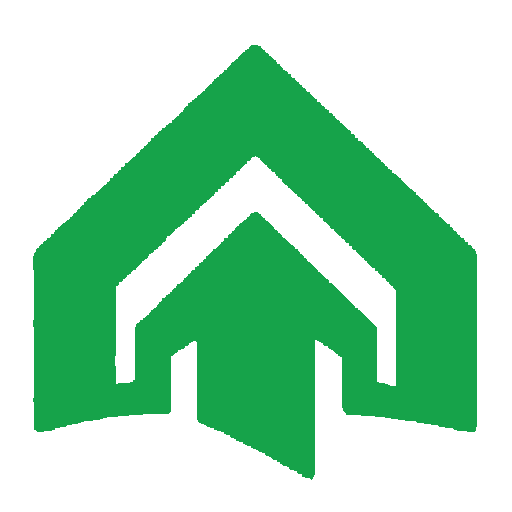
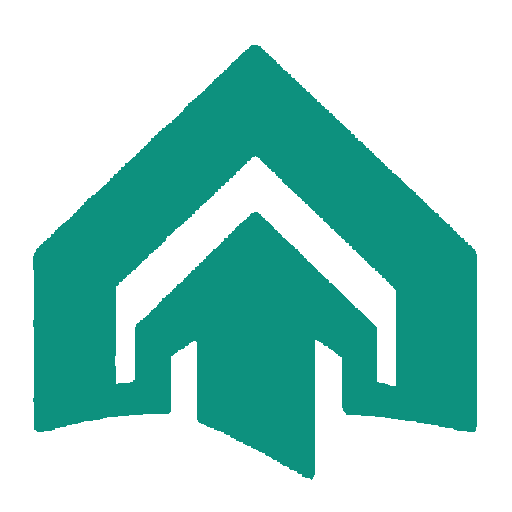
rebrand to Hunita, refresh brand assets, and improve SEO metadata

diff --git a/app/page.tsx b/app/page.tsx
@@ -18,6 +18,8 @@ import { PaymentStatusBadge } from "@/components/ui/payment-status-badge";
 import { UserMenuCta } from "@/components/user-menu-cta";
 import { readSessionFromToken } from "@/lib/server/auth-session";
 
+const APP_URL = process.env.NEXT_PUBLIC_APP_URL || process.env.NEXT_PUBLIC_SITE_URL || "http://localhost:3000";
+
 const paymentStages = [
   { label: "Belum bayar", note: "Tagihan sudah dibuat, belum ada bukti pembayaran." },
   { label: "Menunggu Verifikasi", note: "Warga sudah upload bukti, menunggu pengecekan finance." },
@@ -54,6 +56,16 @@ const features = [
 
 const futureFeature = ["Notifikasi Tagihan", "Reminder Belum Bayar", "Booking Fasilitas", "Marketplace Warga", "Laporan Pengeluaran Detail"] as const;
 
+const websiteJsonLd = {
+  "@context": "https://schema.org",
+  "@type": "WebApplication",
+  name: "Hunita",
+  description: "Sistem Management Perumahan yang transparan.",
+  applicationCategory: "BusinessApplication",
+  operatingSystem: "Web",
+  url: APP_URL,
+};
+
 function statusBadge(status: string) {
   return <PaymentStatusBadge status={status} />;
 }
@@ -66,6 +78,7 @@ export default async function Page() {
 
   return (
     <div className="relative overflow-hidden">
+      <script type="application/ld+json" dangerouslySetInnerHTML={{ __html: JSON.stringify(websiteJsonLd) }} />
       <div className="absolute -left-24 bottom-[-180px] h-80 w-80 rounded-full bg-[hsl(var(--spark-amber))] blur-3xl" />
       <div className="absolute -right-14 -top-20 h-72 w-72 rounded-full bg-[hsl(var(--spark-teal))] blur-3xl" />
 
@@ -76,8 +89,8 @@ export default async function Page() {
               <BrandMark className="h-8 w-8" />
             </div>
             <div>
-              <p className="font-heading text-base font-semibold">Smart Cluster</p>
-              <p className="text-sm text-muted-foreground">Sistem Manajemen Transaksi & IPL</p>
+              <p className="font-heading text-base font-semibold">Hunita</p>
+              <p className="text-sm text-muted-foreground">Sistem Management Perumahan yang transparan.</p>
             </div>
           </div>
           {!hasActiveSession ? (
@@ -119,7 +132,7 @@ export default async function Page() {
                       <span className="h-2.5 w-2.5 rounded-full bg-amber-400" />
                       <span className="h-2.5 w-2.5 rounded-full bg-emerald-400" />
                       <div className="ml-2 rounded-md bg-white px-2 py-0.5 text-[10px] text-muted-foreground">
-                        smart-cluster-app.vercel.app/dashboard/admin
+                        hunita.vercel.app/dashboard/admin
                       </div>
                     </div>
 
@@ -277,7 +290,7 @@ export default async function Page() {
 
         <footer className="mt-6 flex flex-wrap items-center gap-2 text-sm text-muted-foreground">
           <CalendarClock className="h-4 w-4" />
-          <span>Landing page disesuaikan dengan dashboard terbaru Smart Cluster.</span>
+          <span>Landing page disesuaikan dengan dashboard terbaru Hunita.</span>
           <Building2 className="ml-2 h-4 w-4" />
           <ShieldCheck className="h-4 w-4" />
           <ReceiptText className="h-4 w-4" />

diff --git a/app/layout.tsx b/app/layout.tsx
@@ -4,19 +4,65 @@ import "./globals.css";
 import { PwaRegister } from "@/components/pwa-register";
 import { DeveloperErrorModal } from "@/components/ui/developer-error-modal";
 
+const APP_NAME = "Hunita";
+const APP_DESCRIPTION = "Sistem Management Perumahan yang transparan.";
+const APP_URL = process.env.NEXT_PUBLIC_APP_URL || process.env.NEXT_PUBLIC_SITE_URL || "http://localhost:3000";
+
 export const metadata: Metadata = {
-  title: "Smart Cluster - UI Prototype",
-  description: "Shadcn-styled Smart Cluster dashboard for admin and warga flow.",
+  metadataBase: new URL(APP_URL),
+  title: {
+    default: APP_NAME,
+    template: `%s | ${APP_NAME}`,
+  },
+  description: APP_DESCRIPTION,
+  applicationName: APP_NAME,
+  keywords: ["Hunita", "manajemen perumahan", "IPL", "iuran warga", "dashboard perumahan", "transaksi perumahan"],
+  alternates: {
+    canonical: "/",
+  },
+  robots: {
+    index: true,
+    follow: true,
+    googleBot: {
+      index: true,
+      follow: true,
+      "max-image-preview": "large",
+      "max-video-preview": -1,
+      "max-snippet": -1,
+    },
+  },
+  openGraph: {
+    type: "website",
+    locale: "id_ID",
+    url: "/",
+    siteName: APP_NAME,
+    title: APP_NAME,
+    description: APP_DESCRIPTION,
+    images: [
+      {
+        url: "/brand/icon-512-green.png",
+        width: 512,
+        height: 512,
+        alt: `${APP_NAME} logo`,
+      },
+    ],
+  },
+  twitter: {
+    card: "summary",
+    title: APP_NAME,
+    description: APP_DESCRIPTION,
+    images: ["/brand/icon-512-green.png"],
+  },
   manifest: "/manifest.webmanifest",
   icons: {
-    icon: [{ url: "/brand/favicon-32.png", sizes: "32x32", type: "image/png" }],
-    shortcut: "/brand/favicon-32.png",
-    apple: [{ url: "/apple-icon.png", sizes: "180x180", type: "image/png" }],
+    icon: [{ url: "/brand/favicon-32-green.png", sizes: "32x32", type: "image/png" }],
+    shortcut: "/brand/favicon-32-green.png",
+    apple: [{ url: "/apple-icon-green.png", sizes: "180x180", type: "image/png" }],
   },
   appleWebApp: {
     capable: true,
     statusBarStyle: "default",
-    title: "Smart Cluster",
+    title: APP_NAME,
   },
 };
 

diff --git a/app/login/page.tsx b/app/login/page.tsx
@@ -1,6 +1,17 @@
+import type { Metadata } from "next";
+
 import { BrandMark } from "@/components/brand-mark";
 import { LoginForm } from "@/components/login-form";
 import { Card, CardContent, CardHeader, CardTitle } from "@/components/ui/card";
+
+export const metadata: Metadata = {
+  title: "Login",
+  description: "Login Hunita untuk akses dashboard perumahan.",
+  robots: {
+    index: false,
+    follow: false,
+  },
+};
 
 export default function LoginPage() {
   return (
@@ -12,9 +23,9 @@ export default function LoginPage() {
               <div className="mb-3 inline-flex h-12 w-12 items-center justify-center rounded-lg bg-white/90 p-1 shadow-sm ring-1 ring-[hsl(var(--menu-border))]">
                 <BrandMark className="h-9 w-9" />
               </div>
-              <p className="font-heading text-lg">Smart Cluster</p>
+              <p className="font-heading text-lg">Hunita</p>
               <p className="mt-1 text-xs leading-relaxed text-[hsl(var(--menu-muted))]">
-                Sistem manajemen transaksi dan IPL perumahan yang transparan, rapi, dan mudah dipantau.
+                Sistem Management Perumahan yang transparan.
               </p>
             </div>
             <div>

diff --git a/components/dashboard-shell.tsx b/components/dashboard-shell.tsx
@@ -40,7 +40,7 @@ export function DashboardShell({ roleLabel, sidebar, children }: DashboardShellP
             <BrandMark className="h-6 w-6" />
           </div>
           <div>
-            <p className="font-heading text-base">Smart Cluster</p>
+            <p className="font-heading text-base">Hunita</p>
             <p className="text-xs text-muted-foreground">{roleLabel}</p>
           </div>
         </div>
@@ -66,7 +66,7 @@ export function DashboardShell({ roleLabel, sidebar, children }: DashboardShellP
                   <BrandMark className="h-6 w-6" />
                 </div>
                 <div>
-                  <p className="font-heading text-base">Smart Cluster</p>
+                  <p className="font-heading text-base">Hunita</p>
                   <p className="text-xs text-[hsl(var(--menu-muted))]">{roleLabel}</p>
                 </div>
               </div>

diff --git a/tests/e2e/smoke.spec.ts b/tests/e2e/smoke.spec.ts
@@ -1,10 +1,10 @@
 import { expect, test } from "@playwright/test";
 
-test.describe("Smart Cluster public flow", () => {
+test.describe("Hunita public flow", () => {
   test("landing page renders key content", async ({ page }) => {
     await page.goto("/");
-    await expect(page.getByText("Smart Cluster").first()).toBeVisible();
-    await expect(page.getByText("Sistem Manajemen Transaksi & IPL")).toBeVisible();
+    await expect(page.getByText("Hunita").first()).toBeVisible();
+    await expect(page.getByText("Sistem Management Perumahan yang transparan.")).toBeVisible();
   });
 
   test("login page renders google login button", async ({ page }) => {

diff --git a/components/brand-mark.tsx b/components/brand-mark.tsx
@@ -2,12 +2,13 @@ import Image from "next/image";
 
 import { cn } from "@/lib/utils";
 
+const BRAND_MARK_SRC = "/brand/brand-mark-green.png";
+
 type BrandMarkProps = {
   className?: string;
   alt?: string;
 };
 
-export function BrandMark({ className, alt = "Smart Cluster logo" }: BrandMarkProps) {
-  return <Image src="/brand/brand-mark.png" alt={alt} width={64} height={64} className={cn("h-8 w-8 object-contain", className)} />;
+export function BrandMark({ className, alt = "Hunita logo" }: BrandMarkProps) {
+  return <Image src={BRAND_MARK_SRC} alt={alt} width={64} height={64} className={cn("h-8 w-8 object-contain", className)} />;
 }
-

diff --git a/app/sitemap.ts b/app/sitemap.ts
@@ -1,0 +1,20 @@
+import type { MetadataRoute } from "next";
+
+const APP_URL = process.env.NEXT_PUBLIC_APP_URL || process.env.NEXT_PUBLIC_SITE_URL || "http://localhost:3000";
+
+export default function sitemap(): MetadataRoute.Sitemap {
+  return [
+    {
+      url: `${APP_URL}/`,
+      lastModified: new Date(),
+      changeFrequency: "weekly",
+      priority: 1,
+    },
+    {
+      url: `${APP_URL}/login`,
+      lastModified: new Date(),
+      changeFrequency: "monthly",
+      priority: 0.7,
+    },
+  ];
+}

diff --git a/components/login-form.tsx b/components/login-form.tsx
@@ -34,7 +34,7 @@ export function LoginForm() {
     if (!oauthError) return;
 
     if (oauthError.includes("email_not_registered")) {
-      setError("Email Google anda belum terdaftar di sistem kami. Hubungi administrator segera.");
+      setError("Email anda belum terdaftar di sistem kami. Hubungi administrator segera.");
       return;
     }
     if (oauthError.includes("google_config_missing")) {

diff --git a/app/robots.ts b/app/robots.ts
@@ -1,0 +1,16 @@
+import type { MetadataRoute } from "next";
+
+const APP_URL = process.env.NEXT_PUBLIC_APP_URL || process.env.NEXT_PUBLIC_SITE_URL || "http://localhost:3000";
+
+export default function robots(): MetadataRoute.Robots {
+  return {
+    rules: [
+      {
+        userAgent: "*",
+        allow: "/",
+      },
+    ],
+    sitemap: [`${APP_URL}/sitemap.xml`],
+    host: APP_URL,
+  };
+}

diff --git a/public/sw.js b/public/sw.js
@@ -1,10 +1,10 @@
-const CACHE_NAME = "smart-cluster-v3";
+const CACHE_NAME = "smart-cluster-v4";
 const PRECACHE_URLS = [
   "/offline",
   "/manifest.webmanifest",
-  "/brand/favicon-32.png",
-  "/brand/icon-192.png",
-  "/brand/icon-512.png",
+  "/brand/favicon-32-green.png",
+  "/brand/icon-192-green.png",
+  "/brand/icon-512-green.png",
 ];
 
 function isStaticAsset(pathname) {

diff --git a/backend/server.js b/backend/server.js
@@ -1485,7 +1485,7 @@ async function startServer() {
     await ensureBillColumns();
     await ensureTransactionColumns();
     app.listen(PORT, () => {
-      console.log(`Smart Cluster API running at http://localhost:${PORT}`);
+      console.log(`Hunita API running at http://localhost:${PORT}`);
     });
   } catch (error) {
     console.error("Gagal start backend:", error);

diff --git a/components/dashboard-sidebar.tsx b/components/dashboard-sidebar.tsx
@@ -43,7 +43,7 @@ export function AdminSidebar() {
           <BrandMark className="h-7 w-7" />
         </div>
         <div>
-          <p className="font-heading text-base">Smart Cluster</p>
+          <p className="font-heading text-base">Hunita</p>
           <p className="text-xs text-[hsl(var(--menu-muted))]">{panelLabel}</p>
         </div>
       </div>
